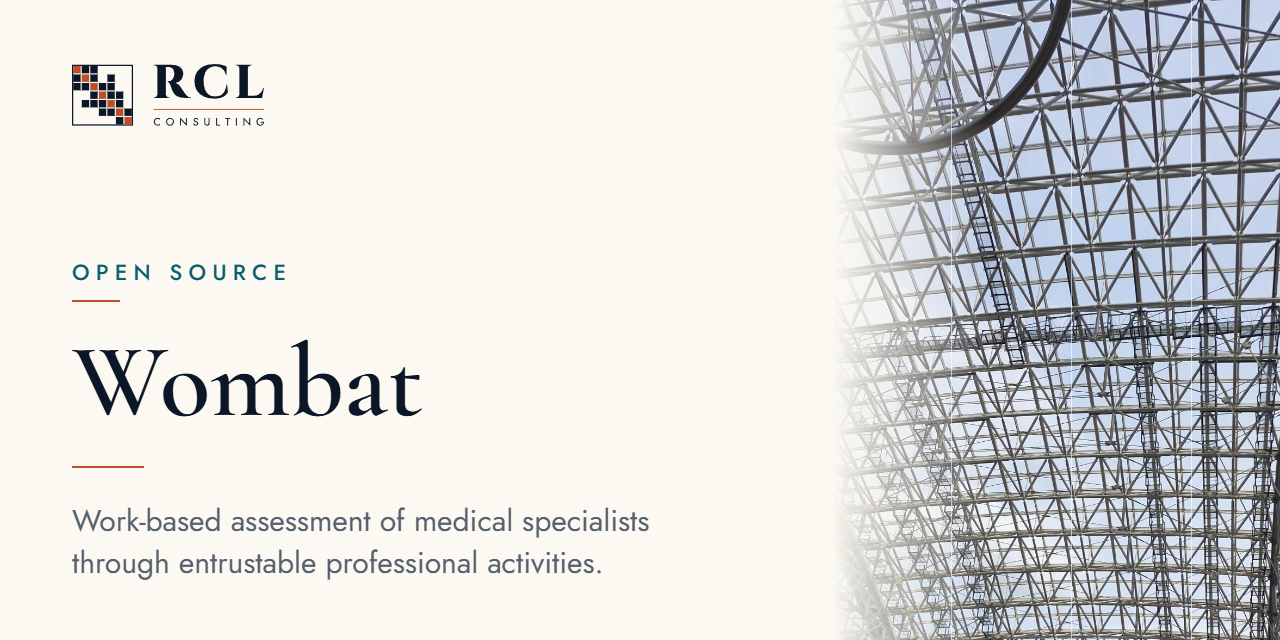
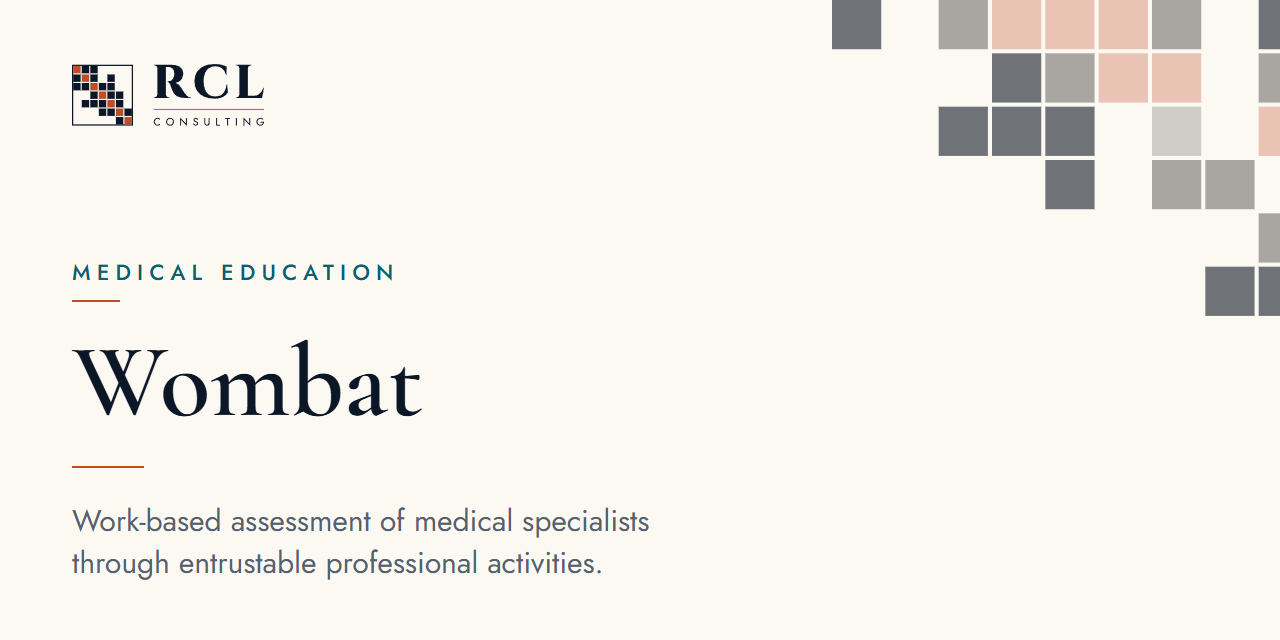
fix(social-preview): give Wombat the matrix motif, not structural photography
Wombat is medical-education software; a steel canopy implied an engineering
link. Its card now uses the brand's matrix-field motif (background texture, no
fade or guides) and the eyebrow 'Medical education'. card.html gains a motif
option for any card whose subject is not structure.

diff --git a/social-preview/card.html b/social-preview/card.html
@@ -26,6 +26,11 @@
   .card .logo{display:block;height:62px;width:auto;align-self:flex-start}
   /* Brand photography: structure fills the frame, no skyline. Each card sets its crop. */
   .card .rcl-hero__media{background-position:var(--crop,center);background-size:var(--zoom,cover)}
+  /* A motif instead of a photograph, for work that is not about structure (brand: motifs are
+     background texture, one per composition). No protection fade or guides: those belong to
+     photography. */
+  .card .rcl-hero__media.is-motif{background-repeat:no-repeat}
+  .card .rcl-hero__media.is-motif::before,.card .rcl-hero__media.is-motif .rcl-hero__guides{display:none}
 </style>
 </head>
 <body>
@@ -47,8 +52,11 @@
     document.getElementById('eyebrow').textContent = c.eyebrow;
     document.getElementById('title').textContent = c.title;
     document.getElementById('description').textContent = c.description;
-    document.getElementById('media').style.backgroundImage =
-      `url('../../rcl-brand/assets/Photography/${c.photo}')`;
+    const media = document.getElementById('media');
+    media.style.backgroundImage = c.motif
+      ? `url('../../rcl-brand/assets/Motifs/${c.motif}')`
+      : `url('../../rcl-brand/assets/Photography/${c.photo}')`;
+    media.classList.toggle('is-motif', !!c.motif);
     if (c.crop) document.getElementById('media').style.setProperty('--crop', c.crop);
     if (c.zoom) document.getElementById('media').style.setProperty('--zoom', c.zoom);
     document.title = c.repo;
